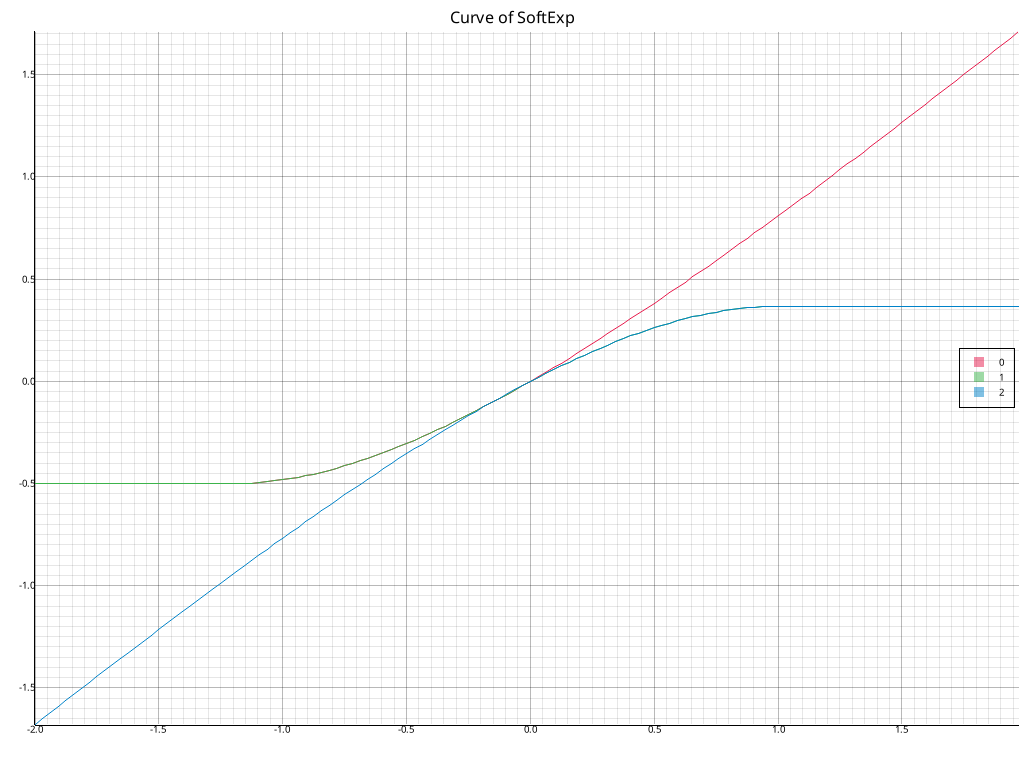
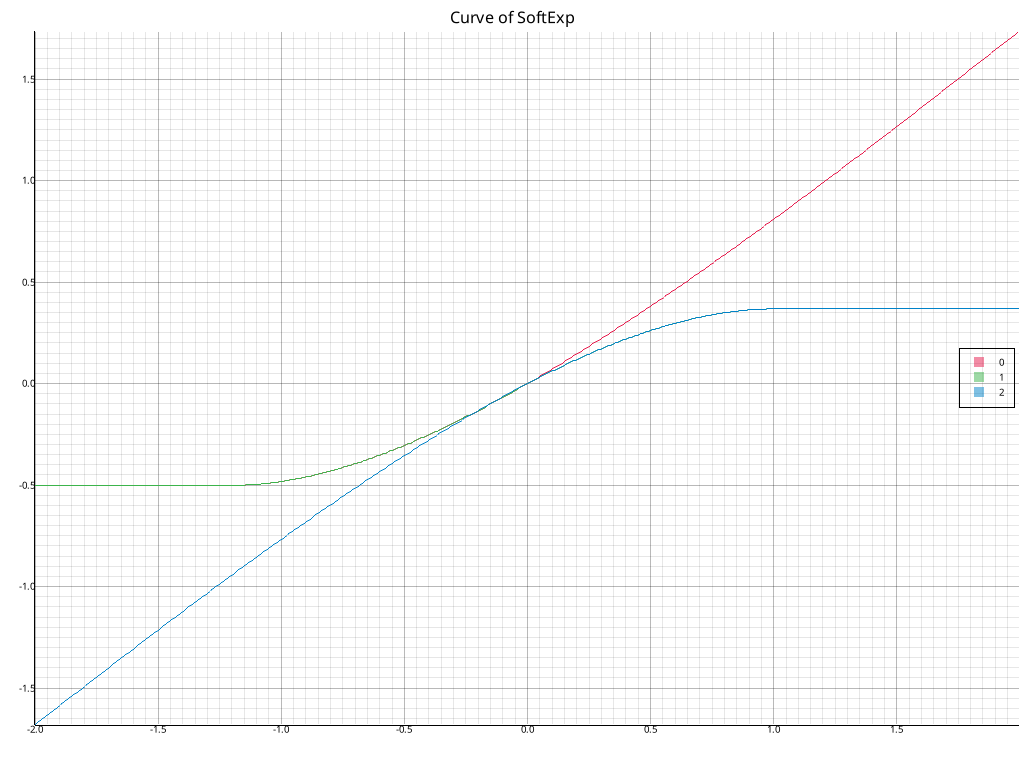
Fix pentode and triode

diff --git a/src/pentode/mod.rs b/src/pentode/mod.rs
@@ -1,6 +1,163 @@
+use core::marker::PhantomData;
+
+use real_time_fir_iir_filters::{conf::LowPass, change::Change, f, filters::iir::first::FirstOrderRCFilter, param::{FilterFloat, RC}};
+
+use crate::{rtf::Rtf1, tubes::Tube6550};
+
 moddef::moddef!(
     flat(pub) mod {
         model,
         param
     }
 );
+
+pub struct Pentode<F, M = Tube6550>
+where
+    F: FilterFloat,
+    M: PentodeModel
+{
+    param: PentodeClassA<F>,
+    input_filter: FirstOrderRCFilter<LowPass, F>,
+    output_filter: FirstOrderRCFilter<LowPass, F>,
+    marker: PhantomData<M>
+}
+
+impl<F, M> Pentode<F, M>
+where
+    F: FilterFloat,
+    M: PentodeModel
+{
+    pub fn new(param: PentodeClassA<F>) -> Self
+    {
+        let input_filter = FirstOrderRCFilter::new::<LowPass>(RC {r: param.r_i, c: f!(M::C_CG + M::C_PG)});
+        let output_filter = FirstOrderRCFilter::new::<LowPass>(RC {r: param.r_p, c: f!(M::C_CP + M::C_PG)});
+        Self {
+            param,
+            input_filter,
+            output_filter,
+            marker: PhantomData
+        }
+    }
+
+    pub fn saturate(&mut self, rate: F, x: F) -> F
+    where
+        FirstOrderRCFilter<LowPass, F>: Rtf1<F = F>
+    {
+        // Math: https://www.normankoren.com/Audio/Tubemodspice_article.html
+
+        let one = F::one();
+        let zero = F::zero();
+
+        let ri = self.param.r_i;
+        let rp = self.param.r_p;
+        let two_rp = rp + rp;
+        let vg2 = self.param.v_g2;
+        let vpp = self.param.v_pp;
+        let rgi = f!(M::R_GI);
+
+        self.input_filter.param.r = (f!(1.0/M::R_GI) + ri.recip()).recip();
+
+        let vg = self.input_filter.filter(rate, x*rgi/(rgi + ri));
+
+        let mu_inv = f!(1.0/M::MU);
+        let kp = f!(M::K_P);
+        let kvb = f!(M::K_VB);
+        let kg1 = f!(M::K_G1);
+        let ex = f!(M::EX);
+
+        let vg2_d_kp = vg2/kp;
+        let c = kp*(mu_inv + vg/vg2);
+        
+        let v1 = vg2_d_kp*crate::exp_ln_1p(c);
+
+        let (vp, a) = if v1.is_sign_positive()
+        {
+            let rp_inv = two_rp.recip();
+            let vpp_d_rp = vpp/two_rp;
+
+            let b = v1.powf(ex)/kg1;
+
+            let mut vp = vpp/(one + b*two_rp/kvb);
+            if vp > one
+            {
+                vp = vpp - b*two_rp*F::FRAC_PI_2();
+            }
+            vp = vp.max(zero).min(vpp);
+
+            const NEWTON: usize = 10;
+
+            for _ in 0..NEWTON
+            {
+                let vp_d_kvb = vp/kvb;
+
+                let f = vpp_d_rp - vp/two_rp - b*vp.atan2(kvb);
+                let df_dvp = -rp_inv - b/(vp*vp_d_kvb + kvb);
+
+                let delta = f/df_dvp;
+                vp = vp - delta;
+            }
+
+            vp = vp.max(zero).min(vpp);
+            let vp_d_kvb = vp/kvb;
+
+            let df_dvp = -rp_inv - b/(vp*vp_d_kvb + kvb);
+
+            let dv1_dvg = (one + (-c).exp()).recip();
+            let df_dv1 = -ex*v1.powf(ex - one)/kg1*vp.atan2(kvb);
+            let dvp_dvg = dv1_dvg*df_dv1/df_dvp;
+
+            (vp, dvp_dvg)
+        }
+        else
+        {
+            (vpp, zero)
+        };
+
+        let miller_effect = one + a.max(zero);
+        let change = crate::change(rate);
+
+        self.output_filter.param.c.change(f!(M::C_CP) + f!(M::C_PG)*miller_effect, change);
+        self.input_filter.param.c.change(f!(M::C_CG) + f!(M::C_PG)/miller_effect, change);
+
+        let vp = self.output_filter.filter(rate, vp);
+        vp
+    }
+}
+
+#[cfg(test)]
+mod test
+{
+    use core::ops::Range;
+
+    use crate::tubes::{Tube6550, Tube6L6CG, TubeKT88};
+
+    use super::*;
+
+    #[test]
+    fn it_works()
+    {
+        const RATE: f32 = 100.0;
+        const RANGE: Range<f32> = -2.0..50.0;
+        
+        let param = PentodeClassA {
+            r_i: 1e3,
+            r_p: 1e3,
+            v_pp: 24.0,
+            v_g2: 3.3
+        };
+        
+        let mut t0 = Pentode::<_, Tube6L6CG>::new(param);
+        let mut t1 = Pentode::<_, Tube6550>::new(param);
+        let mut t2 = Pentode::<_, TubeKT88>::new(param);
+
+        crate::tests::plot(
+            "Pentode",
+            RANGE,
+            |x| [
+                t0.saturate(RATE, x),
+                t1.saturate(RATE, x),
+                t2.saturate(RATE, x)
+            ]
+        )
+    }
+}

diff --git a/src/triode/mod.rs b/src/triode/mod.rs
@@ -1,6 +1,6 @@
 use core::marker::PhantomData;
 
-use real_time_fir_iir_filters::{f, change::Change, conf::LowPass, filters::iir::first::FirstOrderRCFilter, param::{FilterFloat, RC}, static_rtf::StaticRtfBase};
+use real_time_fir_iir_filters::{f, change::Change, conf::LowPass, filters::iir::first::FirstOrderRCFilter, param::{FilterFloat, RC}};
 
 use crate::{rtf::Rtf1, tubes::Tube12AX7};
 
@@ -54,7 +54,7 @@ where
         let vpp = self.param.v_pp;
         let rgi = f!(M::R_GI);
 
-        self.input_filter.param.r = f!(M::R_GI.recip()) + ri.recip().recip();
+        self.input_filter.param.r = (f!(1.0/M::R_GI) + ri.recip()).recip();
 
         let vg = self.input_filter.filter(rate, x*rgi/(rgi + ri));
 
@@ -69,45 +69,58 @@ where
             //let mut v1 = vp/kp*(kp*(mu_inv + vg/(kvb + vp*vp).sqrt())).exp().ln_1p();
             //let mut vp = vpp - two_rp*v1.max(zero).powf(ex)/kg1;
 
-            let mut vp = vpp/(one + two_rp/mu/kg1);
-            let mut v1 = vp/kp*(kp*(mu_inv + vg/(kvb + vp*vp).sqrt())).exp().ln_1p();
+            let mut v1 = {
+                let vp = vpp/(one + two_rp/mu/kg1);
+                vp/kp*crate::exp_ln_1p(kp*(mu_inv + vg/(kvb + vp*vp).sqrt()))
+            };
 
-            let mut df_dv1 = zero;
-            let mut b = zero;
-            let mut term_sqrt = zero;
             const NEWTON: usize = 4;
 
             for _ in 0..NEWTON
             {
                 v1 = v1.max(zero);
-                vp = vpp - two_rp*v1.powf(ex)/kg1;
+                let vp = (vpp - two_rp*v1.powf(ex)/kg1).max(zero);
                 let dvp_dv1 = -two_rp*ex*v1.powf(ex - one)/kg1;
 
                 let term = kvb + vp*vp;
-                term_sqrt = term.sqrt();
+                let term_sqrt = term.sqrt();
 
-                b = mu_inv + vg/term_sqrt;
+                let b = mu_inv + vg/term_sqrt;
                 let db_dv1 = -vg*vp*dvp_dv1/(term*term_sqrt);
 
-                let c = (kp*b).exp().ln_1p();
+                let c = crate::exp_ln_1p(kp*b);
                 let dc_dv1_d_kp = (kp*b - c).exp()*db_dv1;
                 
                 let f = v1 - vp*c/kp;
-                df_dv1 = one - dvp_dv1*c/kp - dc_dv1_d_kp*vp;
+                let df_dv1 = one - dvp_dv1*c/kp - dc_dv1_d_kp*vp;
 
                 let delta = f/df_dv1;
                 v1 = v1 - delta;
             }
 
-            let vp = (vpp - two_rp*v1.max(zero).powf(ex)/kg1).max(zero);
-            let df_dvg = vp/term_sqrt/(one + (-kp*b).exp());
-            let a = df_dvg/df_dv1;
+            v1 = v1.max(zero);
+            let vp = (vpp - two_rp*v1.powf(ex)/kg1).max(zero);
+            let dvp_dv1 = -two_rp*ex*v1.powf(ex - one)/kg1;
 
-            (vp, a)
+            let term = kvb + vp*vp;
+            let term_sqrt = term.sqrt();
+
+            let b = mu_inv + vg/term_sqrt;
+            let db_dv1 = -vg*vp*dvp_dv1/(term*term_sqrt);
+
+            let c = crate::exp_ln_1p(kp*b);
+            let dc_dv1_d_kp = (kp*b - c).exp()*db_dv1;
+            
+            let df_dv1 = one - dvp_dv1*c/kp - dc_dv1_d_kp*vp;
+
+            let df_dvg = vp/term_sqrt/(one + (-kp*b).exp());
+            let dvp_dvg = df_dvg/df_dv1*dvp_dv1;
+
+            (vp, dvp_dvg)
         };
 
         let miller_effect = one + a.max(zero);
-        let change = f!(1.0e-3)/(one + rate);
+        let change = crate::change(rate);
 
         self.output_filter.param.c.change(f!(M::C_CP) + f!(M::C_PG)*miller_effect, change);
         self.input_filter.param.c.change(f!(M::C_CG) + f!(M::C_PG)/miller_effect, change);

diff --git a/src/lib.rs b/src/lib.rs
@@ -18,11 +18,27 @@ moddef::moddef!(
     }
 );
 
+pub use real_time_fir_iir_filters::f;
+
 pub trait Saturation<F, R>
 where
     F: Float
 {
     fn saturate(&self, x: F, range: R) -> F;
+}
+
+fn exp_ln_1p<F>(x: F) -> F
+where
+    F: Float
+{
+    x.max(F::zero()) + (-x.abs()).exp().ln_1p()
+}
+
+fn change<F>(rate: F) -> F
+where
+    F: Float
+{
+    f!(1.0e-3)/(F::one() + rate)
 }
 
 #[cfg(test)]
